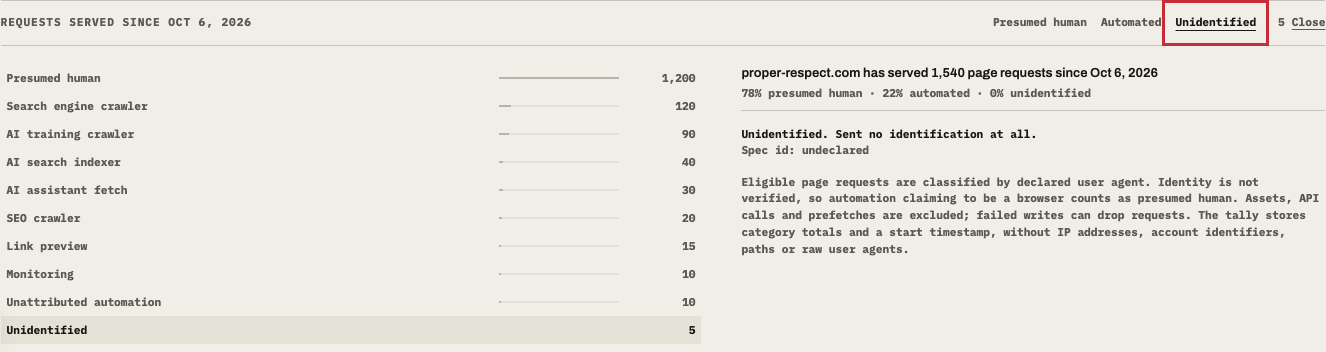
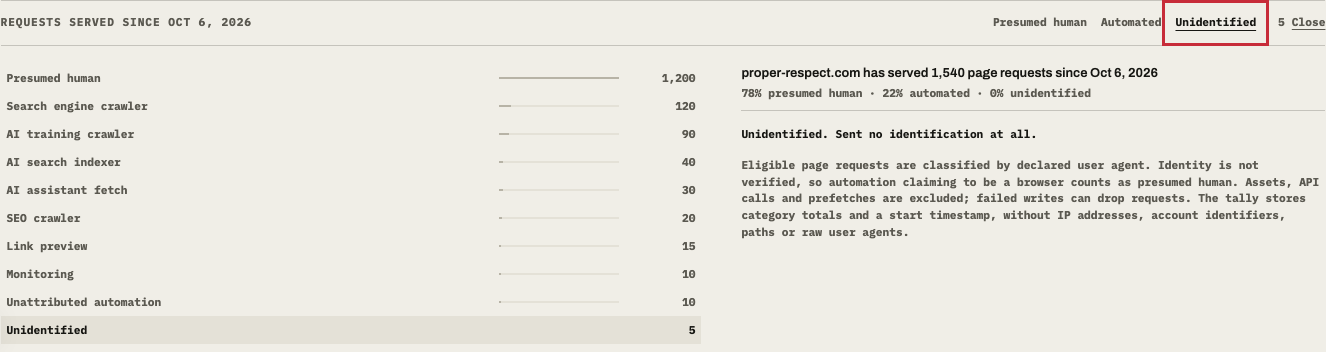
fix: show tally category evidence and accurate storage scope

Changed region(s): [[0.5566, 0.4062, 1.0, 0.7188]]

diff --git a/components/request-tally.tsx b/components/request-tally.tsx
@@ -80,7 +80,7 @@ export function RequestTally() {
           <span>proper-respect.com has served {fmt(total)} page requests{dateSuffix}</span>
           <span>{pct(data.presumedHuman)} presumed human · {pct(data.automated)} automated · {pct(data.unidentified)} unidentified</span>
         </div>
-        <p><strong>{capitalize(TALLY_LABELS[selected])}.</strong> {capitalize(TALLY_DEFINITIONS[selected])}<br /><span className="site-tally-muted">Spec id: {selected}</span></p>
+        <p><strong>{capitalize(TALLY_LABELS[selected])}.</strong> {capitalize(TALLY_DEFINITIONS[selected])}</p>
         <p className="site-tally-muted">Eligible page requests are classified by declared user agent. Identity is not verified, so automation claiming to be a browser counts as presumed human. Assets, API calls and prefetches are excluded; failed writes can drop requests. The tally stores category totals and a start timestamp, without IP addresses, account identifiers, paths or raw user agents.</p>
       </div>
     </div> : null}

diff --git a/tests/e2e/site-frame.spec.ts b/tests/e2e/site-frame.spec.ts
@@ -80,9 +80,9 @@ for (const width of [1440, 320]) test(`Footer tally opens its breakdown inline a
   await unidentified.click();
   await expect(unidentified).toHaveAttribute("aria-pressed", "true");
   await expect(count).toHaveAccessibleName("Unidentified requests 5 Close");
-  await expect(panel.getByText("Spec id: undeclared")).toBeVisible();
+  await expect(panel.locator(".site-tally-detail p").first()).toHaveText(/Unidentified\. Sent no identification at all\./);
   await panel.getByRole("button", { name: /Link preview/ }).focus();
-  await expect(panel.getByText("Spec id: link_preview")).toBeVisible();
+  await expect(panel.locator(".site-tally-detail p").first()).toHaveText(/Link preview\. Identifies itself as a link-preview client/);
   expect(await page.evaluate(() => document.documentElement.scrollWidth <= innerWidth)).toBe(true);
 });
 

diff --git a/src/server/tally-store.ts b/src/server/tally-store.ts
@@ -4,7 +4,7 @@ import { toSnapshot, type TallyCategory, type TallySnapshot } from "@/src/server
  * Running totals for the footer tally in Upstash Redis, over its REST API.
  * Production writes `pr:tally:v1`; every other environment writes
  * `pr:preview:tally:v1`. The synthetic public fixture disables the store.
- * The store holds category counts only: no IPs, paths or user agents.
+ * The store holds category counts and a start timestamp: no IPs, paths or user agents.
  */
 type Env = Record<string, string | undefined>;
 

diff --git a/docs/verification/2026-10-06-request-tally.md b/docs/verification/2026-10-06-request-tally.md
@@ -44,3 +44,15 @@ The AI-assistant and link-preview definitions now state only the User-Agent clai
 Valid-date year regressions first produced two intended browser failures (`tally-red-year.txt`). After the date/copy/comment corrections, all 13 site-frame browser cases passed (`tally-final-browser.txt`), recapturing the four theme/focus images with the final copy. The earlier full-check result above is a recorded initial implementation stage; latest integrated-tree checks will be recorded separately.
 
 The delegated privacy implementation stayed within `src/server/trust-pages.ts`, `src/server/trust-pages.test.ts` and `docs/DEVELOPMENT.md`. Two new HTML/Markdown regressions failed with eight existing passes before implementation; all ten then passed with a fake canonical origin and intercepted fetch (`tally-privacy-handoff.md` and its raw logs). The source records the aggregate Upstash fields, coverage, exclusions, inference and missing-write limits; production service configuration remains author-reported and unverified. The new section is separate from Searchable's services paragraph so both disclosures can survive the forthcoming main merge.
+
+## Product-copy disposition — before editing
+
+The visible Spec id exposes an internal taxonomy identifier without helping interpret the metric. Disposition: remove it and retain the visible category name and definition. Browser regressions will assert that semantic explanation instead; raw category keys remain unchanged in the store and API.
+
+## Storage-comment disposition — before editing
+
+Independent review identified that the storage contract says category counts only while the writer also stores a start timestamp. Disposition: fix now to name both stored fields. The earlier full-check proof predates the shared privacy date change; current public-site date expectations are supplied by the pending analytics main integration. Final integrated-tree checks remain required.
+
+## Updated framework browser proof — 2026-10-06 UTC
+
+Node 24 installed Next 16.3.8 and the installed proxy waitUntil guide was read. All 13 site-frame browser cases pass with the semantic category explanation and final copy (`tally-next1638-browser.txt`). The four screenshots were recaptured. Fixture store reads/writes remained disabled; no genuine credentials or provider request was used.
